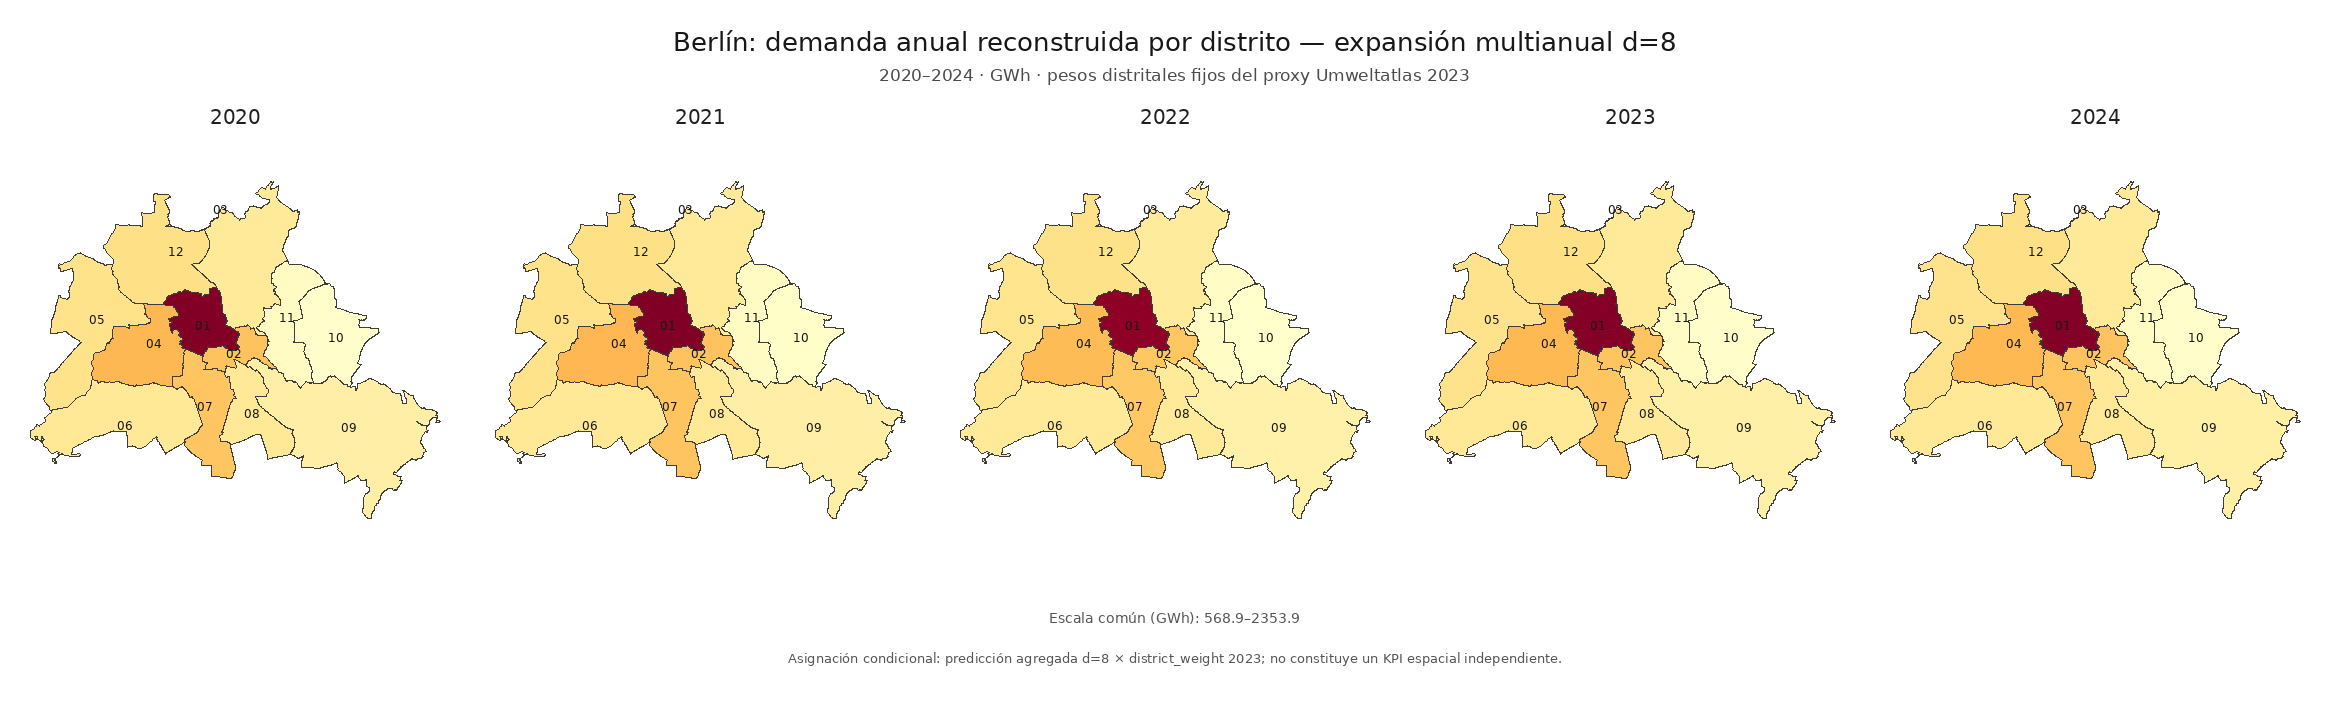
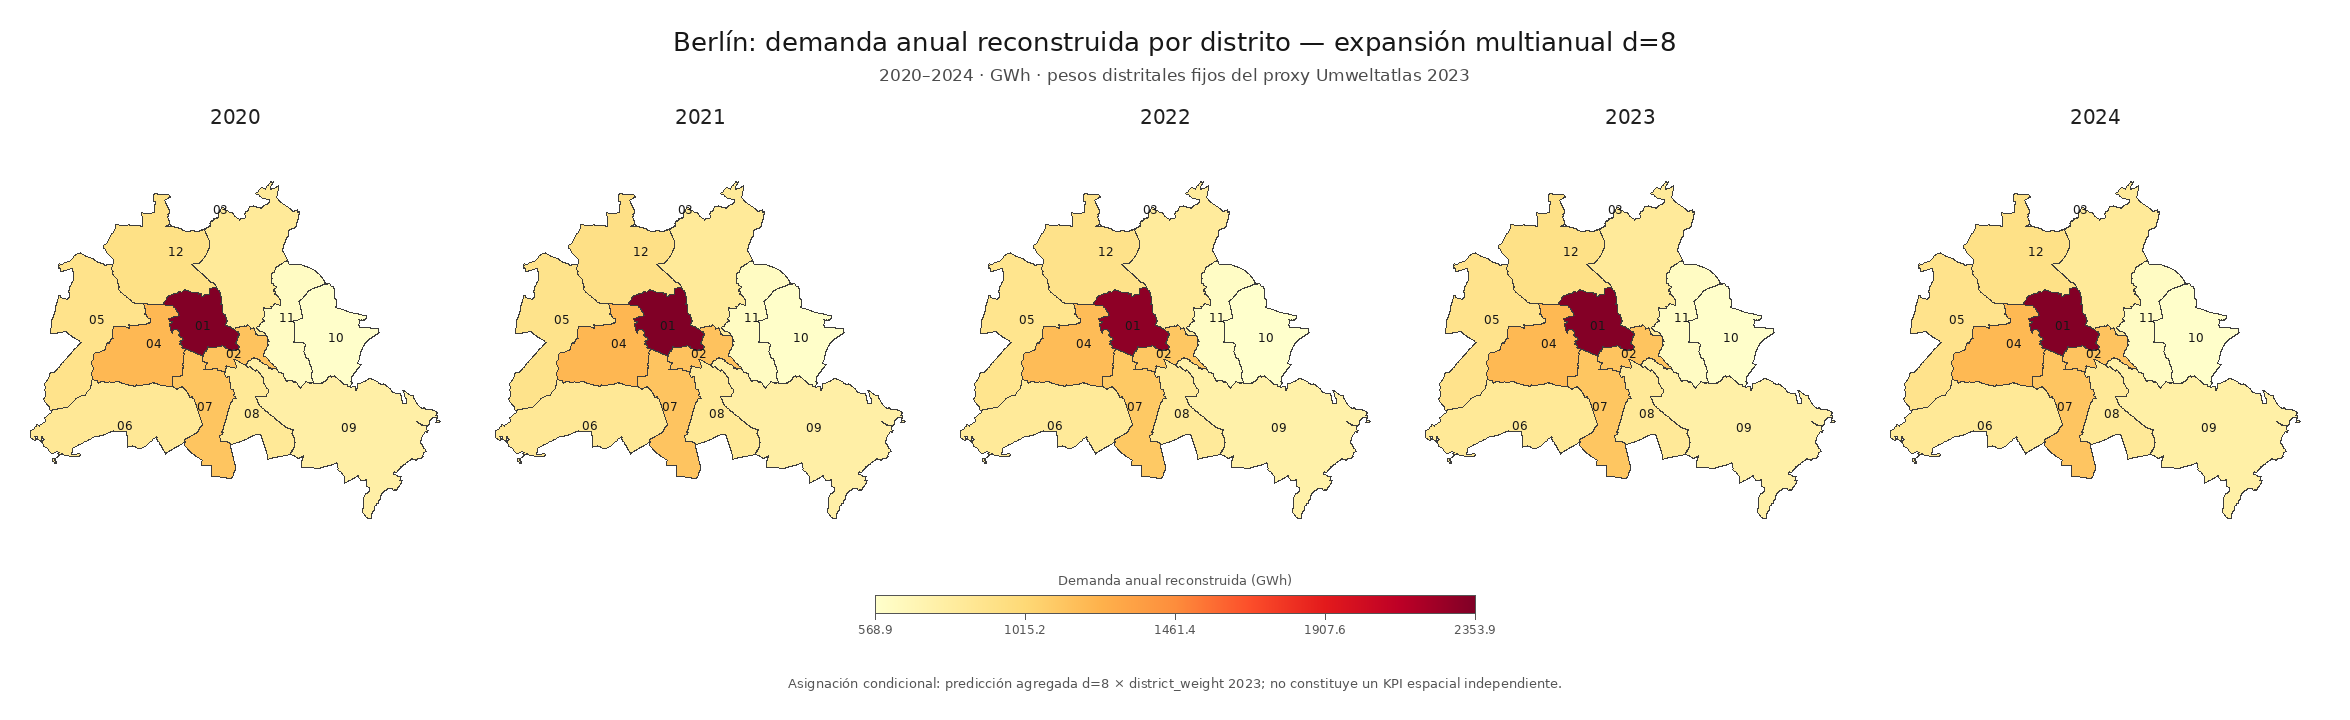
Add colorbars to multiyear demand maps

Changed region(s): [[0.3728, 0.7944, 0.6523, 0.8861], [0.3417, 0.8861, 0.6523, 0.9778]]

diff --git a/analisis/inferencia_postproceso_multianual_berlin.py b/analisis/inferencia_postproceso_multianual_berlin.py
@@ -21,6 +21,7 @@ import csv
 import gzip
 import hashlib
 import html
+import io
 import json
 import math
 from collections import defaultdict
@@ -78,9 +79,12 @@ def read_csv(path: Path) -> list[dict[str, str]]:
 
 def write_csv(path: Path, fields: list[str], rows: Iterable[dict[str, object]]) -> None:
     path.parent.mkdir(parents=True, exist_ok=True)
-    opener = gzip.open if path.suffix == ".gz" else open
-    kwargs = {"encoding": "utf-8", "newline": ""} if path.suffix == ".gz" else {"encoding": "utf-8", "newline": ""}
-    with opener(path, "wt", **kwargs) as handle:
+    if path.suffix == ".gz":
+        raw = gzip.GzipFile(filename=str(path), mode="wb", mtime=0)
+        handle = io.TextIOWrapper(raw, encoding="utf-8", newline="")
+    else:
+        handle = path.open("w", encoding="utf-8", newline="")
+    with handle:
         writer = csv.DictWriter(handle, fieldnames=fields, lineterminator="\n")
         writer.writeheader()
         writer.writerows(rows)
@@ -148,6 +152,20 @@ def draw_map_png(draw, districts, values: dict[str, float], x0: float, y0: float
             draw.text((px, py), district["id_bezirk"], fill="#171717", anchor="mm", font=font(12))
 
 
+def draw_colorbar_png(draw, x: float, y: float, width: float, height: float, minimum: float, maximum: float, label: str) -> None:
+    draw.text((x + width / 2, y - 10), label, fill="#555555", anchor="ms", font=font(13))
+    for offset in range(int(width)):
+        ratio = offset / max(width - 1, 1)
+        value = minimum + ratio * (maximum - minimum)
+        draw.line((x + offset, y, x + offset, y + height), fill=color_for(value, minimum, maximum))
+    draw.rectangle((x, y, x + width, y + height), outline="#555555", width=1)
+    for fraction in (0.0, 0.25, 0.5, 0.75, 1.0):
+        tick_x = x + fraction * width
+        value = minimum + fraction * (maximum - minimum)
+        draw.line((tick_x, y + height, tick_x, y + height + 6), fill="#555555", width=1)
+        draw.text((tick_x, y + height + 9), f"{value:.1f}", fill="#555555", anchor="ma", font=font(12))
+
+
 def render_district_png(path: Path, districts, values: dict[tuple[int, str], float], minimum: float, maximum: float) -> None:
     from PIL import Image, ImageDraw
     width, height = 2350, 720
@@ -159,8 +177,8 @@ def render_district_png(path: Path, districts, values: dict[tuple[int, str], flo
         x = 30 + index * 465
         draw.text((x + 205, 105), str(year), fill="#202020", anchor="ma", font=font(20))
         draw_map_png(draw, districts, {district["id_bezirk"]: values[(year, district["id_bezirk"])] for district in districts}, x, 135, 410, 430, minimum, maximum)
-    draw.text((width / 2, 610), f"Escala común (GWh): {minimum:.1f}–{maximum:.1f}", fill="#555555", anchor="ma", font=font(14))
-    draw.text((width / 2, 650), "Asignación condicional: predicción agregada d=8 × district_weight 2023; no constituye un KPI espacial independiente.", fill="#555555", anchor="ma", font=font(13))
+    draw_colorbar_png(draw, 875, 595, 600, 18, minimum, maximum, "Demanda anual reconstruida (GWh)")
+    draw.text((width / 2, 675), "Asignación condicional: predicción agregada d=8 × district_weight 2023; no constituye un KPI espacial independiente.", fill="#555555", anchor="ma", font=font(13))
     image.save(path, format="PNG", optimize=True)
 
 
@@ -176,13 +194,28 @@ def render_sector_png(path: Path, districts, values: dict[tuple[int, str, str], 
             x, y = 25 + column * 465, 95 + row * 335
             draw.text((x + 205, y), f"{year} · {sector} - {SECTOR_FIGURE_NAMES[sector]}", fill="#202020", anchor="ma", font=font(14))
             draw_map_png(draw, districts, {district["id_bezirk"]: values[(year, district["id_bezirk"], sector)] for district in districts}, x, y + 26, 410, 265, minimum, maximum)
-    draw.text((width / 2, 1780), f"Escala común para todos los paneles (GWh): {minimum:.1f}–{maximum:.1f}", fill="#555555", anchor="ma", font=font(14))
-    draw.text((width / 2, 1815), "Público = 0 porque Strombilanz no permite separarlo; la asignación es un escenario condicionado, no una medición distrito-sector.", fill="#555555", anchor="ma", font=font(13))
+    draw_colorbar_png(draw, 875, 1740, 600, 18, minimum, maximum, "Demanda anual reconstruida por distrito-sector (GWh)")
+    draw.text((width / 2, 1830), "Público = 0 porque Strombilanz no permite separarlo; la asignación es un escenario condicionado, no una medición distrito-sector.", fill="#555555", anchor="ma", font=font(13))
     image.save(path, format="PNG", optimize=True)
 
 
 def svg_text(x: float, y: float, value: object, size: int, anchor: str = "middle", weight: str = "normal", fill: str = "#202020") -> str:
     return f'<text x="{x:.1f}" y="{y:.1f}" text-anchor="{anchor}" font-family="DejaVu Sans,Arial,sans-serif" font-size="{size}px" font-weight="{weight}" fill="{fill}">{html.escape(str(value))}</text>'
+
+
+def colorbar_svg(x: float, y: float, width: float, height: float, minimum: float, maximum: float, label: str) -> list[str]:
+    chunks = [svg_text(x + width / 2, y - 10, label, 13, fill="#555555")]
+    for step in range(100):
+        fraction = step / 99
+        value = minimum + fraction * (maximum - minimum)
+        chunks.append(f'<rect x="{x + step * width / 100:.2f}" y="{y:.1f}" width="{width / 100 + 0.1:.2f}" height="{height:.1f}" fill="{color_for(value, minimum, maximum)}"/>')
+    chunks.append(f'<rect x="{x:.1f}" y="{y:.1f}" width="{width:.1f}" height="{height:.1f}" fill="none" stroke="#555555" stroke-width="1"/>')
+    for fraction in (0.0, 0.25, 0.5, 0.75, 1.0):
+        tick_x = x + fraction * width
+        value = minimum + fraction * (maximum - minimum)
+        chunks.append(f'<line x1="{tick_x:.1f}" y1="{y + height:.1f}" x2="{tick_x:.1f}" y2="{y + height + 6:.1f}" stroke="#555555" stroke-width="1"/>')
+        chunks.append(svg_text(tick_x, y + height + 22, f"{value:.1f}", 12, fill="#555555"))
+    return chunks
 
 
 def render_district_svg(path: Path, districts, values: dict[tuple[int, str], float], minimum: float, maximum: float) -> None:
@@ -197,7 +230,8 @@ def render_district_svg(path: Path, districts, values: dict[tuple[int, str], flo
             chunks.append(f'<path d="{outer_path(district, transform)}" fill="{color}" fill-rule="evenodd" stroke="#3d3d3d" stroke-width="1.1"/>')
             px, py = centroid(district, transform)
             chunks.append(svg_text(px, py, district["id_bezirk"], 12))
-    chunks.extend([svg_text(width / 2, 615, f"Escala común (GWh): {minimum:.1f}–{maximum:.1f}", 14, fill="#555555"), svg_text(width / 2, 654, "Asignación condicional: predicción agregada d=8 × district_weight 2023; no constituye un KPI espacial independiente.", 13, fill="#555555"), "</svg>"])
+    chunks.extend(colorbar_svg(875, 595, 600, 18, minimum, maximum, "Demanda anual reconstruida (GWh)"))
+    chunks.extend([svg_text(width / 2, 675, "Asignación condicional: predicción agregada d=8 × district_weight 2023; no constituye un KPI espacial independiente.", 13, fill="#555555"), "</svg>"])
     path.write_text("\n".join(chunks) + "\n", encoding="utf-8")
 
 
@@ -214,7 +248,8 @@ def render_sector_svg(path: Path, districts, values: dict[tuple[int, str, str], 
                 chunks.append(f'<path d="{outer_path(district, transform)}" fill="{color}" fill-rule="evenodd" stroke="#3d3d3d" stroke-width="1.0"/>')
                 px, py = centroid(district, transform)
                 chunks.append(svg_text(px, py, district["id_bezirk"], 10))
-    chunks.extend([svg_text(width / 2, 1782, f"Escala común para todos los paneles (GWh): {minimum:.1f}–{maximum:.1f}", 14, fill="#555555"), svg_text(width / 2, 1817, "Público = 0 porque Strombilanz no permite separarlo; la asignación es un escenario condicionado, no una medición distrito-sector.", 13, fill="#555555"), "</svg>"])
+    chunks.extend(colorbar_svg(875, 1740, 600, 18, minimum, maximum, "Demanda anual reconstruida por distrito-sector (GWh)"))
+    chunks.extend([svg_text(width / 2, 1830, "Público = 0 porque Strombilanz no permite separarlo; la asignación es un escenario condicionado, no una medición distrito-sector.", 13, fill="#555555"), "</svg>"])
     path.write_text("\n".join(chunks) + "\n", encoding="utf-8")
 
 

diff --git a/corfo-report/README.md b/corfo-report/README.md
@@ -28,7 +28,7 @@ Figura disponible: [mapa distrital de demanda anual Berlín 2023 (PNG)](results/
 
 Para la expansión multianual 2020–2024 se generaron la [figura comparativa de MAPE (PNG)](results/figures/berlin_multiyear_kpi_mape.png), su [versión vectorial (SVG)](results/figures/berlin_multiyear_kpi_mape.svg), la [figura de cobertura d=8 (PNG)](results/figures/berlin_multiyear_d8_coverage.png), su [versión vectorial (SVG)](results/figures/berlin_multiyear_d8_coverage.svg) y el [manifiesto con hashes](results/figures/berlin_multiyear_reportability_manifest.json).
 
-La salida espacial multianual está disponible como [mapa anual por distrito](results/figures/berlin_demanda_distrital_multiyear_d8_2020_2024.png), [mapa anual distrito–sector](results/figures/berlin_demanda_distrito_sector_anual_multiyear_d8_2020_2024.png), [tabla distrital](results/tables/berlin_multiyear_d8_district_annual.csv), [tabla distrito–sector](results/tables/berlin_multiyear_d8_district_sector_annual.csv) y [auditoría de conservación y limitaciones](validation/berlin/multiyear_2020_2024/berlin_multiyear_spatial_postprocess_audit.md).
+La salida espacial multianual está disponible como [mapa anual por distrito](results/figures/berlin_demanda_distrital_multiyear_d8_2020_2024.png), [mapa anual distrito–sector](results/figures/berlin_demanda_distrito_sector_anual_multiyear_d8_2020_2024.png), [tabla distrital](results/tables/berlin_multiyear_d8_district_annual.csv), [tabla distrito–sector](results/tables/berlin_multiyear_d8_district_sector_annual.csv) y [auditoría de conservación y limitaciones](validation/berlin/multiyear_2020_2024/berlin_multiyear_spatial_postprocess_audit.md). Ambas figuras incorporan una barra de color común con las magnitudes del heatmap.
 | Series horarias | [`results/timeseries/`](results/timeseries/) | Pesadas fuera de Git; índice y hash obligatorios |
 | Auditoría de fuentes | [`validation/sources/`](validation/sources/) | Cobertura, perímetro, licencia y transformaciones |
 | Validación Berlín | [`validation/berlin/`](validation/berlin/) | Comparaciones por año, territorio y sector |
